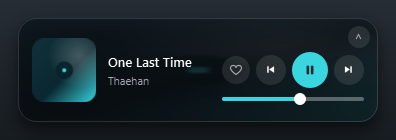
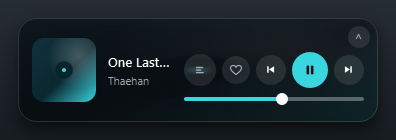
Synced lyrics: improve readability + document features
- LyricsView: taller line height (34), larger active line (15pt) and
  neighbor lines (12pt), and a higher alpha floor so off-active lines
  stay legible against the cover.
- README: document synced lyrics and auto-accent (Usage, Configuration,
  Project structure, acknowledgements); refresh screenshots to show the
  lyrics button on both the compact and expanded cards, plus a new
  karaoke-view shot.

diff --git a/widget.py b/widget.py
@@ -199,7 +199,7 @@ class LyricsView(QWidget):
     neighbours fade with distance; click a line to seek to it."""
 
     seek_requested = Signal(float)   # absolute seconds
-    LINE_H = 30
+    LINE_H = 34
 
     def __init__(self, parent=None):
         super().__init__(parent)
@@ -255,13 +255,13 @@ class LyricsView(QWidget):
             f = p.font()
             if i == self._active:
                 p.setPen(QColor(self.accent))
-                f.setPointSize(12)
+                f.setPointSize(15)
                 f.setBold(True)
             else:
                 col = QColor(255, 255, 255)
-                col.setAlpha(max(35, 170 - abs(i - act) * 38))
+                col.setAlpha(max(110, 225 - abs(i - act) * 32))
                 p.setPen(col)
-                f.setPointSize(10)
+                f.setPointSize(12)
                 f.setBold(False)
             p.setFont(f)
             line = QFontMetrics(f).elidedText(txt, Qt.ElideRight, w - 24)

diff --git a/README.md b/README.md
@@ -12,8 +12,11 @@ no API keys and no setup. Signing in is only needed for the optional extras
 ![Python: 3.10+](https://img.shields.io/badge/python-3.10%2B-3776AB)
 
 <p align="center">
-  <img src="assets/expanded.png" width="330" alt="Expanded view">
-  <img src="assets/compact.png" width="330" alt="Compact view">
+  <img src="assets/expanded.png" width="250" alt="Expanded view">
+  <img src="assets/lyrics.png" width="250" alt="Synced lyrics">
+</p>
+<p align="center">
+  <img src="assets/compact.png" width="340" alt="Compact bar">
 </p>
 
 > **Disclaimer:** This is an unofficial, third-party tool. It is not affiliated
@@ -26,11 +29,12 @@ no API keys and no setup. Signing in is only needed for the optional extras
 - Play / pause, next, and previous controls
 - Compact bar and expanded card, toggled by button, double-click, or tray menu
 - Blurred album-art ambient background for the signature "dark glass" look
-- Configurable transparency and accent color
+- Configurable transparency and accent color, with optional auto-accent tinted from the album art
 - Seekable progress bar (drag to scrub) in the expanded view
 - Shuffle and repeat toggles, shown when the current source supports them
 - System-tray icon with full controls and quit
 - Volume slider (in both the compact bar and the expanded card) for the playing app, via Windows Core Audio, with a mute toggle and a system-volume fallback
+- Synced (karaoke) lyrics in the expanded view: the active line is highlighted and auto-scrolls, and you can click a line to seek. From LRCLIB (free); a dimmed lyrics button signals when a track has none
 - Heart button to favorite the playing track to your TIDAL collection (optional, one-time sign-in)
 - Quality badge showing what the track is available in on TIDAL (MAX / Hi-Res / Lossless / High, plus Atmos)
 - Adaptive controls: actions the current source doesn't support are greyed out or hidden
@@ -98,8 +102,9 @@ The result is `dist\TidalNowPlaying.exe`.
 - **TIDAL web player:** the tray/right-click menu's **TIDAL web player** item opens listen.tidal.com as a standalone window (via Edge/Chrome). Handy if you don't have the desktop app, the widget reads it through Windows media controls, so keep **Follow other apps** on.
 - **Seek:** in expanded mode, drag the progress bar to jump to any point in the track.
 - **Volume:** a slider under the compact controls (and in the expanded card, with a mute button) sets the playing app's volume (TIDAL, or your browser for the web player), falling back to the system volume. It appears only when a controllable audio session is found.
+- **Lyrics:** when the current track has synced lyrics, a lyrics button lights up (on both the compact bar and the expanded view). Tap it for a karaoke view, the active line is highlighted and auto-scrolls, and you can click any line to seek. The button dims when a track has no lyrics.
 - **Shuffle / repeat:** toggle buttons appear in expanded mode when the player supports them. (TIDAL does not expose shuffle/repeat to Windows, so they stay hidden for TIDAL.)
-- **Settings:** right-click the tray icon (or the widget) and choose **Settings...** for accent, opacity, refresh interval, run-at-startup, hotkeys, and update checks. An **About** tab shows the version, links, and licenses.
+- **Settings:** right-click the tray icon (or the widget) and choose **Settings...** for accent (and **tint accent from album art**), opacity, refresh interval, run-at-startup, hotkeys, and update checks. An **About** tab shows the version, links, and licenses.
 - **Global hotkeys** (when enabled): Ctrl+Alt+Space play/pause, Ctrl+Alt+Left/Right prev/next, Ctrl+Alt+L like, Ctrl+Alt+H show/hide.
 - **Heart (like):** click the heart to add the current track to your TIDAL collection. The first time, sign in once via the tray menu ("Sign in to TIDAL"). See below.
 
@@ -142,6 +147,7 @@ if you prefer.
 | `FALLBACK_TO_ANY` | `True` | If TIDAL is not playing, follow any other player (Spotify, a browser, etc.). |
 | `POLL_MS` | `500` | How often to refresh now-playing info, in milliseconds. |
 | `ACCENT` | `"#39d6e0"` | Accent color for the play button and progress bar. |
+| `AUTO_ACCENT` | `False` | Tint the accent from the album art instead of the fixed color above. |
 | `START_EXPANDED` | `False` | Start in the larger expanded card. |
 | `ALWAYS_ON_TOP` | `True` | Keep the widget above other windows. |
 | `BACKGROUND_OPACITY` | `0.82` | Panel transparency (0.0 = clear, 1.0 = solid); text and controls stay opaque. |
@@ -164,6 +170,7 @@ if you prefer.
 | `hotkeys.py` | Optional global hotkeys (pynput). |
 | `updater.py` | Optional in-app update check + self-replace install (GitHub releases). |
 | `volume_backend.py` | Optional per-app volume control via Windows Core Audio (pycaw), on its own COM thread. |
+| `lyrics_backend.py` | Optional synced lyrics from LRCLIB, on a background thread. |
 | `make_icon.py` | Generates `icon.ico` for the packaged app. |
 | `build.bat` | One-click build of the standalone `.exe`. |
 | `run.bat` / `run-debug.bat` | Run from source (with or without a console). |
@@ -203,6 +210,7 @@ Note: current builds are not code-signed, so Windows SmartScreen may show an
 - [tidalapi](https://github.com/tamland/python-tidal) (unofficial TIDAL API client) for the optional favorite feature, licensed under LGPLv3
 - [pynput](https://github.com/moses-palmer/pynput) for optional global hotkeys, licensed under LGPLv3
 - [pycaw](https://github.com/AndreMiras/pycaw) for the optional per-app volume control (Windows Core Audio), licensed under MIT
+- [LRCLIB](https://lrclib.net) for free, keyless time-synced lyrics
 - Icons are drawn at runtime with QPainter, so there are no image assets to ship
 
 Because the packaged `.exe` bundles PySide6 (LGPLv3), the full source for this